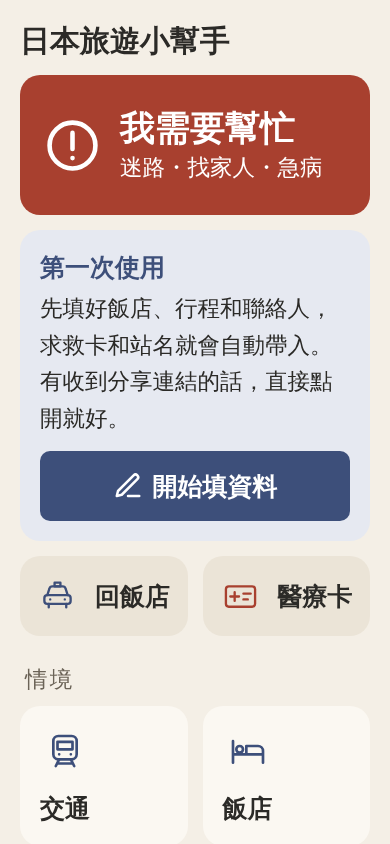
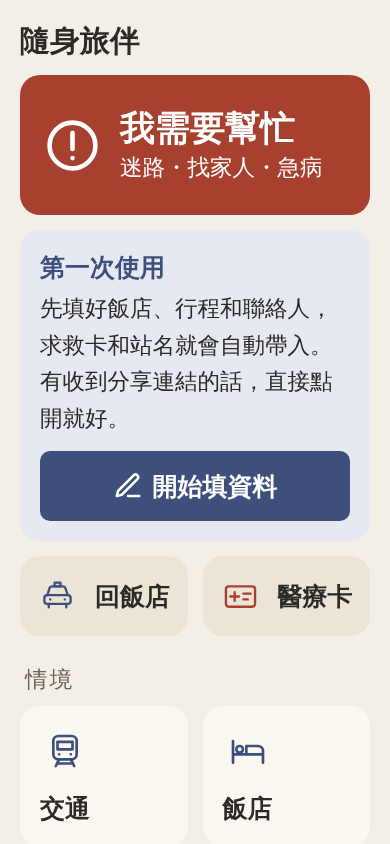
Rename the product to 隨身旅伴 TravelBuddy (#34)
The visible name drops 日本 so other countries can follow: page title,
install name, home greeting, settings, share sheet, README and spec. The
package becomes travel-buddy and the service worker cache travel-buddy-v1
(old daijoubu- caches are cleaned up). Storage keys keep the daijoubu.
prefix on purpose: the new URL shares the origin, so saved data carries over.

Claude-Session: https://claude.ai/code/session_01FL5DYQMe9ZWzkevjtD88Bj

Changed region(s): [[0.2769, 0.0308, 0.5846, 0.0616], [0.0308, 0.0308, 0.2154, 0.0616]]

diff --git a/index.html b/index.html
@@ -4,7 +4,7 @@
     <meta charset="UTF-8" />
     <meta name="viewport" content="width=device-width, initial-scale=1, viewport-fit=cover" />
     <meta name="theme-color" content="#f4efe6" />
-    <title>日本旅遊小幫手 (Daijoubu)</title>
+    <title>隨身旅伴・日本 (TravelBuddy)</title>
     <meta
       name="description"
       content="不會日文也能在日本 10 秒內把事情辦完：替你念出日文，或放大給對方看。求救卡、交通與購物情境句、指指卡、醫療與過敏卡，離線也能用。"
@@ -17,11 +17,12 @@
     <meta name="apple-mobile-web-app-capable" content="yes" />
     <meta name="mobile-web-app-capable" content="yes" />
     <meta name="apple-mobile-web-app-status-bar-style" content="default" />
-    <meta name="apple-mobile-web-app-title" content="旅遊小幫手" />
+    <meta name="apple-mobile-web-app-title" content="隨身旅伴" />
     <script>
       // Mirrors applySettings() in src/state.ts. It has to run before the first
       // paint, or opening the app in dark mode flashes the light paper.
       try {
+        // Storage keys keep the old prefix (see src/lib/store.ts).
         const saved = JSON.parse(localStorage.getItem("daijoubu.settings") || "null");
         const s = (saved && saved.data) || {};
         const theme =
@@ -39,7 +40,7 @@
   </head>
   <body>
     <div id="app" class="mx-auto min-h-dvh max-w-xl"></div>
-    <noscript>請開啟 JavaScript 才能使用日本旅遊小幫手。</noscript>
+    <noscript>請開啟 JavaScript 才能使用隨身旅伴。</noscript>
     <script type="module" src="/src/main.ts"></script>
   </body>
 </html>

diff --git a/public/sw.js b/public/sw.js
@@ -1,5 +1,5 @@
 /**
- * Offline cache for Daijoubu. The whole app is static, so the rules are simple:
+ * Offline cache for 隨身旅伴 TravelBuddy. The whole app is static, so the rules are simple:
  * a page load prefers the network and falls back to the cached shell, and
  * every other same-origin GET is served from the cache first. Bump CACHE to
  * ship a new build; the old cache is dropped on activate.
@@ -7,7 +7,9 @@
  * All URLs are relative to the service worker's own scope, so the site works
  * from a GitHub Pages subpath as well as from the domain root.
  */
-const CACHE = "daijoubu-v1";
+const CACHE = "travel-buddy-v1";
+/** Cache names this app has used, including from before the rename (Daijoubu). */
+const OWN_CACHE = /^(travel-buddy|daijoubu)-/;
 const SHELL = ["./", "./index.html"];
 /** Hashed assets referenced by index.html; see `precache`. */
 const ASSET_HREF = /(?:src|href)="(\.\/assets\/[^"]+)"/g;
@@ -32,7 +34,7 @@ self.addEventListener("activate", (event) => {
       .keys()
       // Cache storage is per origin, and a GitHub Pages account serves every
       // project from one: only ever drop this app's own caches.
-      .then((keys) => Promise.all(keys.filter((key) => key.startsWith("daijoubu-") && key !== CACHE).map((key) => caches.delete(key))))
+      .then((keys) => Promise.all(keys.filter((key) => OWN_CACHE.test(key) && key !== CACHE).map((key) => caches.delete(key))))
       .then(() => self.clients.claim()),
   );
 });

diff --git a/src/lib/store.ts b/src/lib/store.ts
@@ -13,6 +13,10 @@ export interface Store<T> {
  * Defines the store `daijoubu.<name>`. `parse` receives whatever was saved (or
  * `undefined`) with the version it was saved under, and must always return a
  * well-formed value: storage is user-editable and may hold anything.
+ *
+ * The prefix is the product's old name and stays on purpose: the site moved
+ * from /daijoubu/ to /travel-buddy/ on the same origin, and keeping the keys
+ * carries every saved profile and setting over.
  */
 export function defineStore<T>(
   name: string,

diff --git a/src/ui/share.ts b/src/ui/share.ts
@@ -43,7 +43,7 @@ export function renderShare(root: HTMLElement): void {
 
   async function share(): Promise<void> {
     try {
-      await navigator.share({ title: "日本旅遊小幫手", text: "點開這個連結，旅遊小幫手就會帶入你的資料：", url });
+      await navigator.share({ title: "隨身旅伴", text: "點開這個連結，隨身旅伴就會帶入你的資料：", url });
     } catch {
       // Cancelled, or not allowed here: copying still works.
     }

diff --git a/src/ui/overlay.ts b/src/ui/overlay.ts
@@ -6,7 +6,7 @@ import { hush, play, playAll, playButton } from "./japanese";
 import { lineNode } from "./lines";
 
 /** Marks the history entries overlays push; the value is the overlay's own token. */
-const STATE_KEY = "daijoubuOverlay";
+const STATE_KEY = "travelBuddyOverlay";
 
 /** Open overlays, bottom first. A phrase's detail can open 給對方看 on top of itself. */
 const stack: { token: string; element: HTMLElement; teardown: () => void }[] = [];

diff --git a/src/ui/home.ts b/src/ui/home.ts
@@ -13,7 +13,7 @@ const SHORTCUT =
 
 /** One short line: the app greets by name when it has one. */
 export function greeting(profile: Profile): string {
-  return profile.callName ? `${profile.callName}，旅途平安` : "日本旅遊小幫手";
+  return profile.callName ? `${profile.callName}，旅途平安` : "隨身旅伴";
 }
 
 /** Places dated today, in itinerary order. */

diff --git a/src/ui/settings.ts b/src/ui/settings.ts
@@ -106,7 +106,7 @@ export function renderSettings(root: HTMLElement): void {
       h(
         "p",
         { class: "text-base text-muted" },
-        "日本旅遊小幫手 (Daijoubu)。所有資料只存在這支手機裡，不會上傳。",
+        "隨身旅伴 TravelBuddy・日本版。所有資料只存在這支手機裡，不會上傳。",
       ),
     ),
   ]);

diff --git a/tests/home.test.ts b/tests/home.test.ts
@@ -6,7 +6,7 @@ import { sampleProfile } from "./fixtures";
 describe("home", () => {
   it("greets in one short line", () => {
     expect(greeting(sampleProfile())).toBe("媽媽，旅途平安");
-    expect(greeting(emptyProfile())).toBe("日本旅遊小幫手");
+    expect(greeting(emptyProfile())).toBe("隨身旅伴");
   });
 
   it("lists only today's places", () => {

diff --git a/docs/spec.md b/docs/spec.md
@@ -1,4 +1,4 @@
-# 日本旅遊小幫手 (Daijoubu) — 產品規格（v0.2）
+# 隨身旅伴 TravelBuddy（舊名：日本旅遊小幫手 Daijoubu）— 產品規格（v0.2）
 
 > 給不會日文的台灣旅客，去日本時帶在手機裡的小幫手。
 > 不用學日文、也不用開口：App 替你**念出來**，或把日文**放大給對方看**，10 秒內把事情辦完。
@@ -353,7 +353,7 @@ interface Contact {
 ## 6. 分享連結編碼
 
 ```
-https://<user>.github.io/daijoubu/#/s/1.<payload>
+https://<user>.github.io/travel-buddy/#/s/1.<payload>
                                     │ └─ base64url( deflate-raw( UTF-8( JSON( wire ) ) ) )
                                     └─── 格式版本
 ```
@@ -479,7 +479,7 @@ docs/spec.md
 
 | 項目 | 決定 |
 |---|---|
-| 名稱 | 日本旅遊小幫手 (Daijoubu) |
+| 名稱 | 隨身旅伴 TravelBuddy（2026-10 由「日本旅遊小幫手 (Daijoubu)」改名，為之後加入其他國家做準備；儲存鍵沿用 `daijoubu.`） |
 | 用詞 | 給所有人用的服務，UI 與文件不使用針對特定年齡層的稱呼 |
 | 「請寫在這裡」手寫板 | MVP 不做 |
 | iOS 主畫面 App 與 Safari 不共用儲存 | 先不處理 |

diff --git a/README.md b/README.md
@@ -1,6 +1,8 @@
-# 日本旅遊小幫手 (Daijoubu)
+# 隨身旅伴 TravelBuddy
 
-> 不會日文，去日本也大丈夫。
+> 不會當地話，出國也不怕。現在提供日本版。
+
+（舊名：日本旅遊小幫手 Daijoubu。網址從 `/daijoubu/` 改為 `/travel-buddy/`；手機裡存的資料沿用舊的儲存鍵 `daijoubu.`，改名後不會遺失。）
 
 不用學日文，也不用開口。遇到狀況時打開手機、點一個大按鈕：App 替你**念出日文**，或把日文**放大給對方看**，10 秒內把事情辦完。
 
